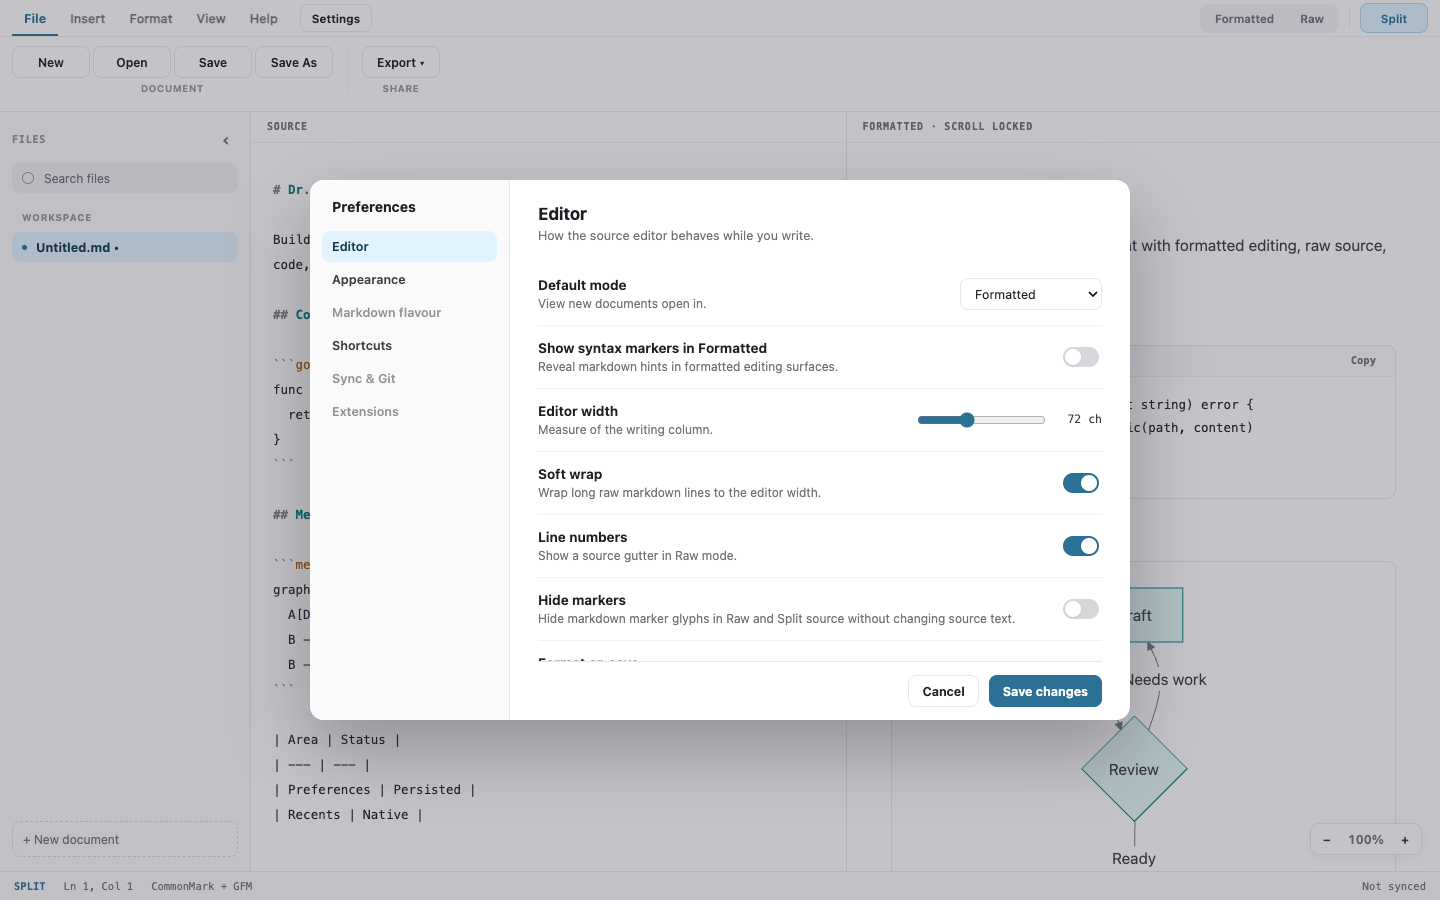
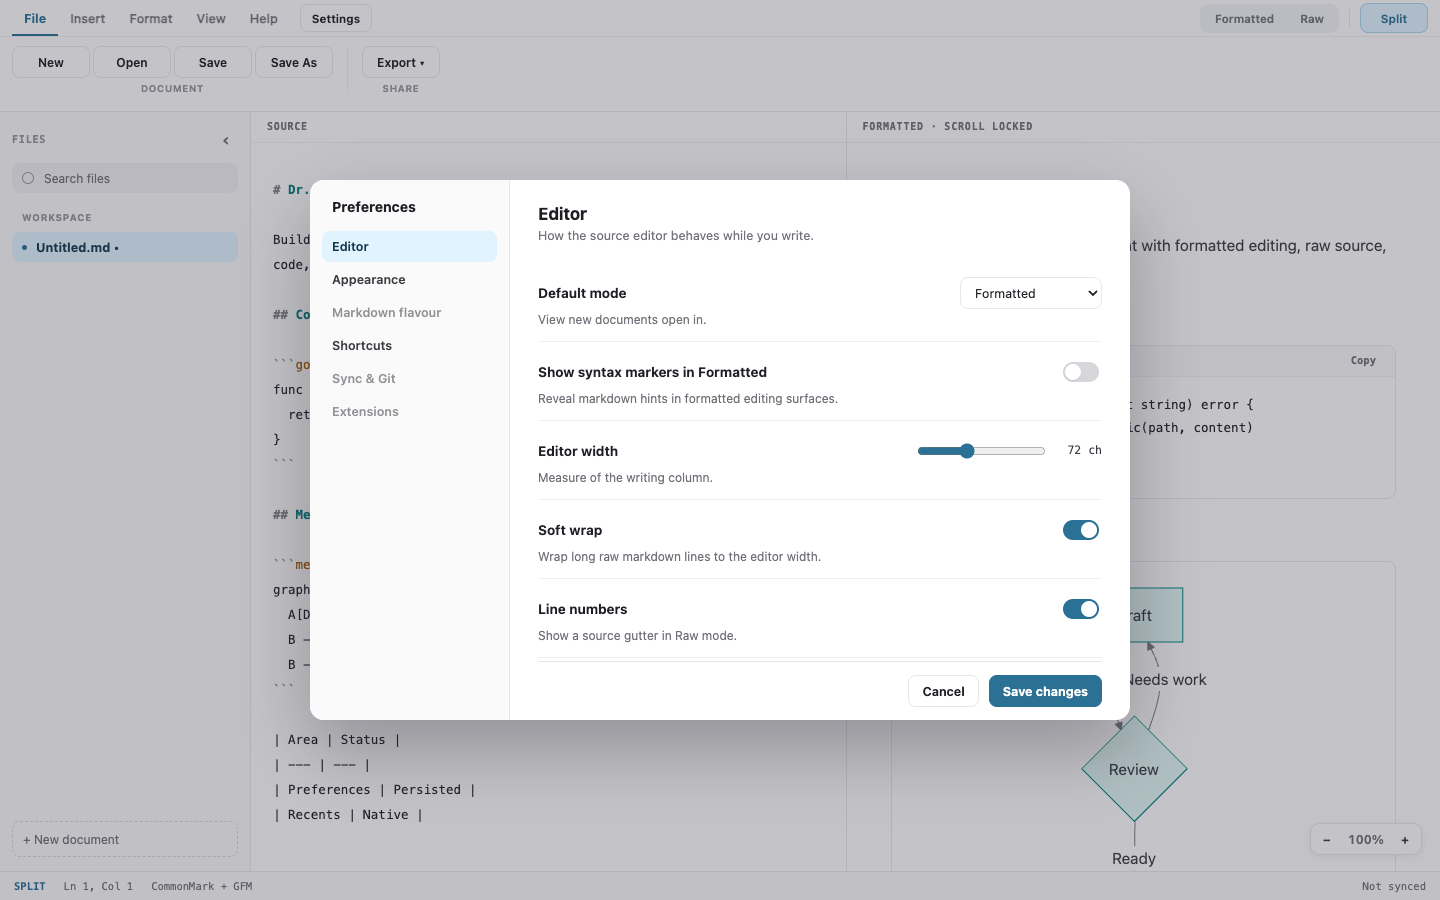
docs: refresh README screenshots for 1.6.1
Regenerated from the current frontend. Only settings.png changed: the four
editing-surface shots are byte-identical, because those surfaces genuinely did
not change this release — the fixes landed in dialogs, the status bar and the
icon, none of which the existing shots cover.

settings.png shows the alignment fix. Every row's control now sits on the line
of the title that names it, where it was measured at 9px below.

Added a diagram assistant shot, because a screenshot refresh that changes one
file does not show a release whose most visible fix is in that dialog. It is
the surface where the preview overflowed its box and ran under the fields
beside it.

The new shot closes Settings first. The shots run in sequence and each leaves
the app as it found it, so the first capture had the diagram assistant
underneath the still-open Settings dialog.

diff --git a/tools/screenshots/main.go b/tools/screenshots/main.go
@@ -89,6 +89,25 @@ func run() error {
 		{name: "raw", setup: `window.__app.setMode("raw").then(() => "ok")`},
 		{name: "split", setup: `window.__app.setMode("split").then(() => "ok")`},
 		{name: "settings", setup: `window.__app.openSettings().then(() => "ok")`},
+		// The diagram assistant, driven through its real ribbon button.
+		//
+		// Added at 1.6.1 because the four editing-surface shots are byte-identical
+		// across this release — the surfaces genuinely did not change — while the
+		// dialogs did, and nothing captured them. This one is where the preview
+		// used to overflow its box and run under the fields beside it.
+		{name: "diagram", setup: `(async () => {
+			// The shots run in sequence and each leaves the app as it found it,
+			// so Settings is still open from the previous one. Without this the
+			// diagram assistant is captured underneath it.
+			window.__app.closeSettings()
+			await new Promise((r) => setTimeout(r, 200))
+			window.__app.setMode("wysiwyg")
+			window.__app.activateRibbonTab("format")
+			await new Promise((r) => setTimeout(r, 200))
+			document.querySelector('[data-command="mermaid"]').click()
+			await new Promise((r) => setTimeout(r, 900))
+			return "ok"
+		})()`},
 	}
 
 	for _, state := range states {

diff --git a/README.md b/README.md
@@ -98,6 +98,10 @@ visible editor behavior, and commit the refreshed files under
 
 ![Dr. Markdown split editor](docs/assets/screenshots/split.png)
 
+### Diagram assistant
+
+![Dr. Markdown diagram assistant](docs/assets/screenshots/diagram.png)
+
 ### Settings
 
 ![Dr. Markdown settings](docs/assets/screenshots/settings.png)
